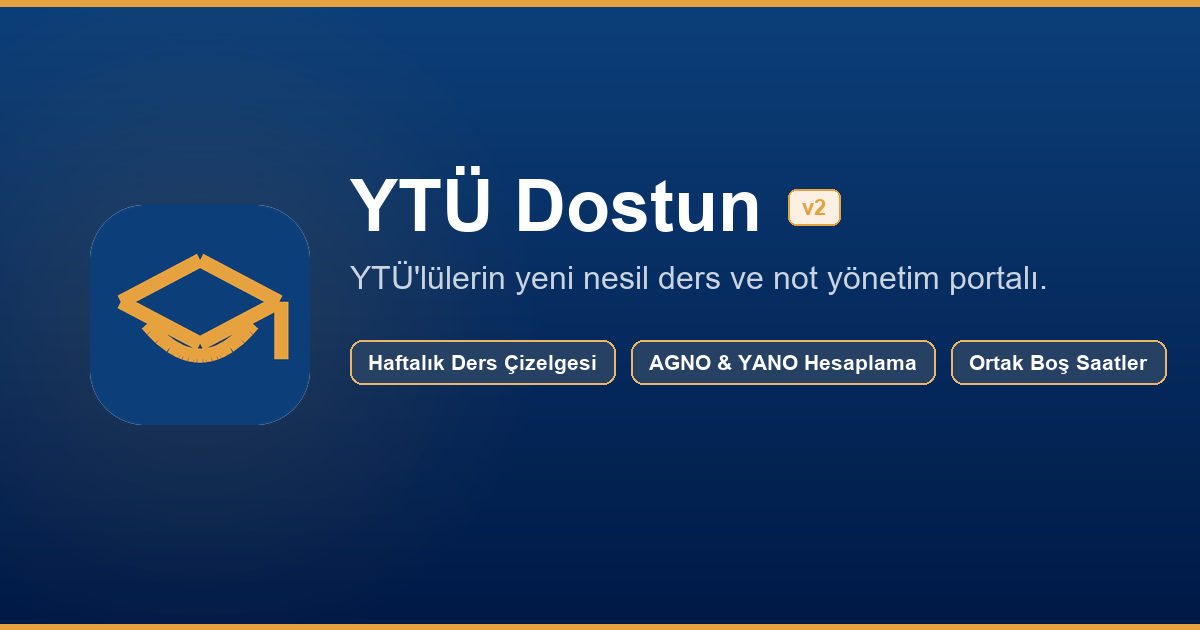
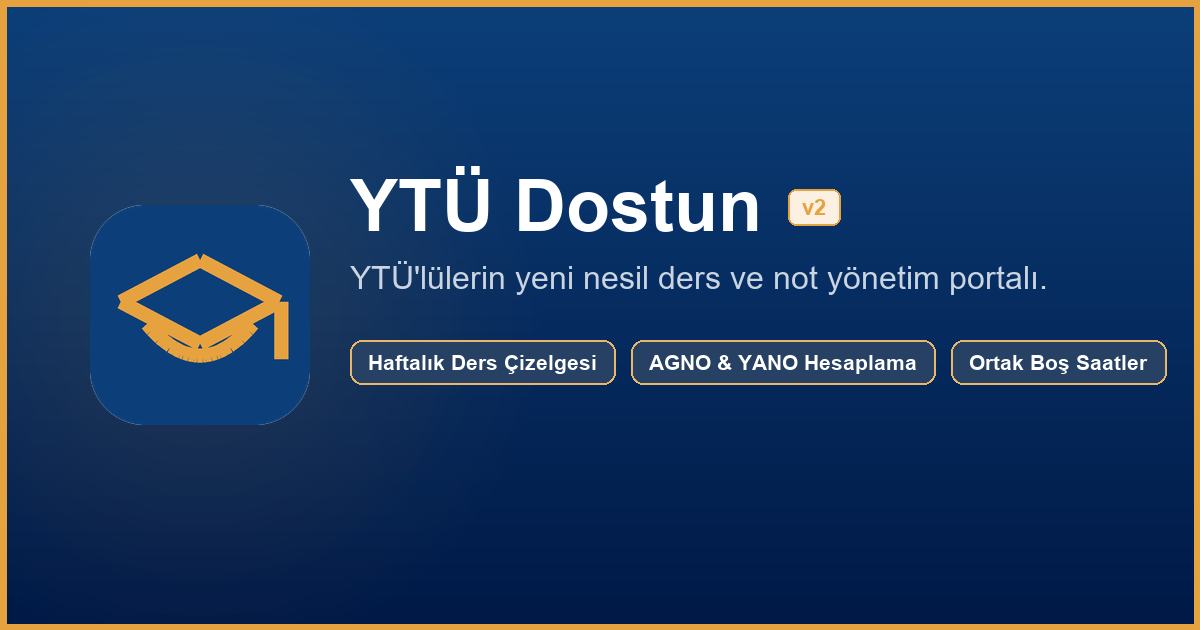
style: add left and right gold accent bars for a complete gold frame in og-image.png

Changed region(s): [[0.9867, 0.0, 1.0, 0.9952], [0.0, 0.0, 0.0308, 0.9952]]

diff --git a/frontend/generate_brand_icons.py b/frontend/generate_brand_icons.py
@@ -91,9 +91,11 @@ def generate_og_image():
     bg = Image.alpha_composite(bg, glow)
     draw = ImageDraw.Draw(bg)
     
-    # Gold top & bottom accent lines
+    # Gold accent frame on all 4 sides (top, bottom, left, right)
     draw.rectangle([(0, 0), (W, 6)], fill=(231, 162, 64, 255))
     draw.rectangle([(0, H - 6), (W, H)], fill=(231, 162, 64, 255))
+    draw.rectangle([(0, 0), (6, H)], fill=(231, 162, 64, 255))
+    draw.rectangle([(W - 6, 0), (W, H)], fill=(231, 162, 64, 255))
 
     # Place Logo (size 220x220)
     logo_size = 220
